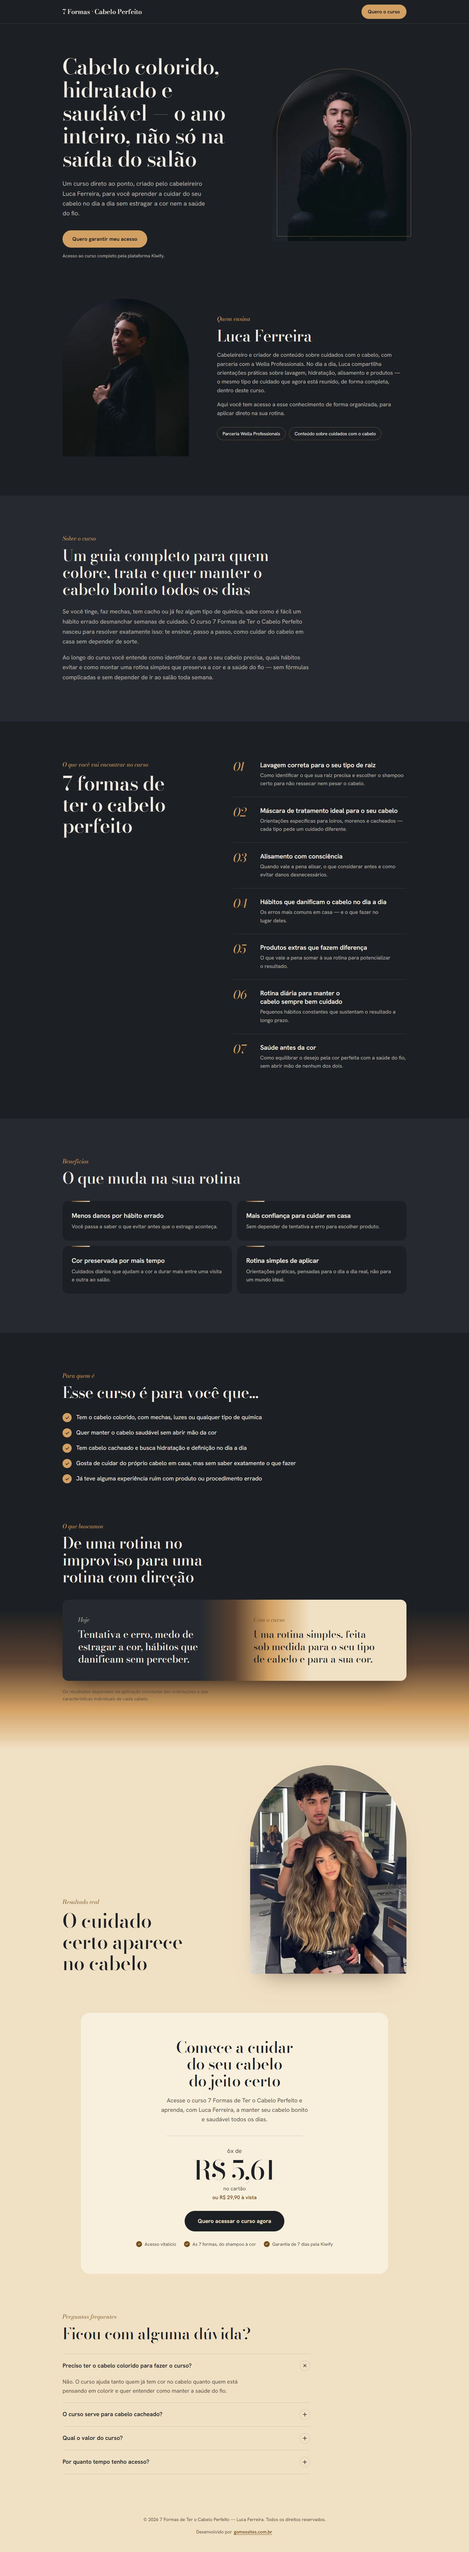
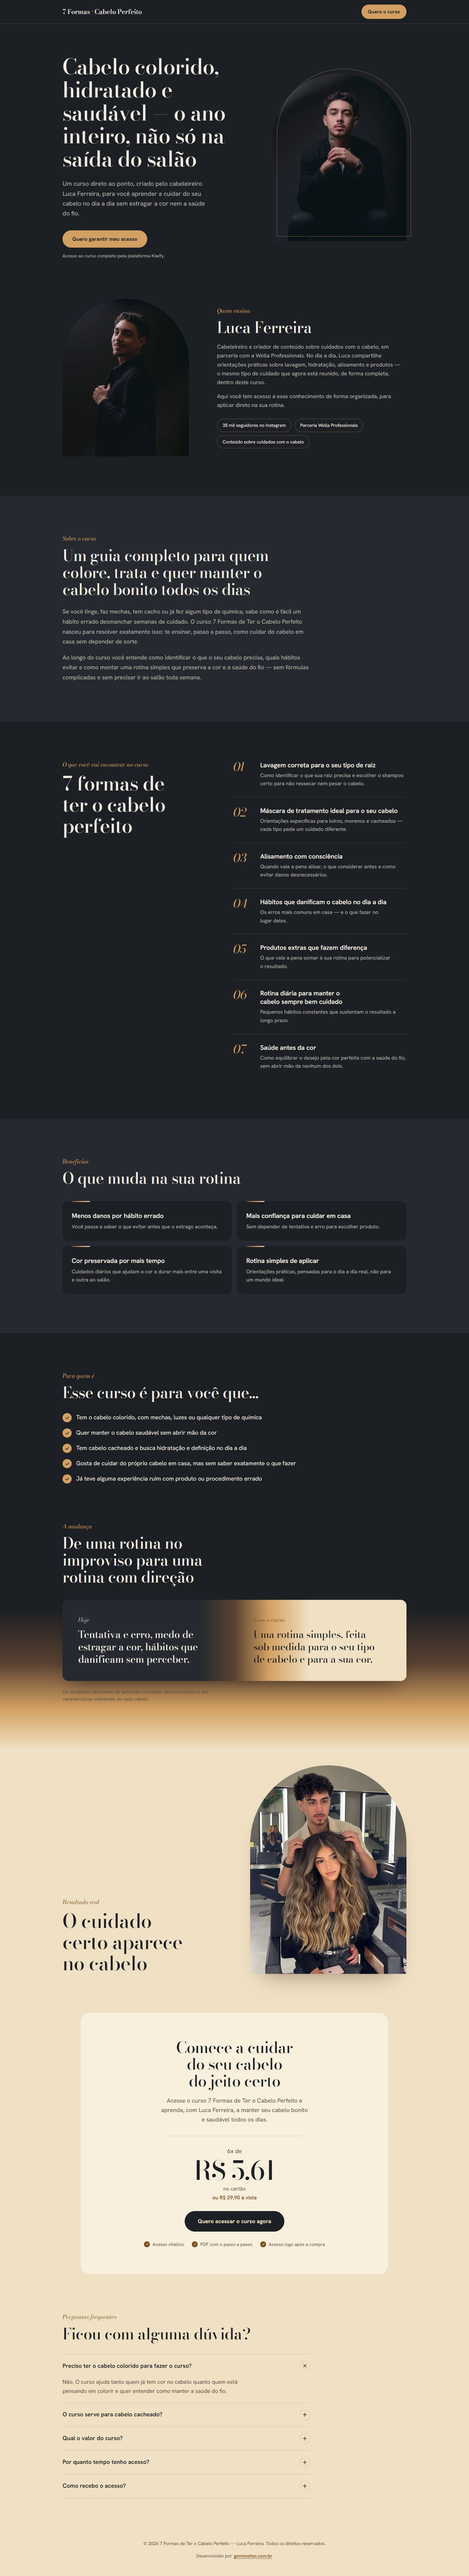
Ajusta textos da landing page
- Corrige "em parceria com a Wella" e evita repetição de "sem depender"
- Troca o rótulo "O que buscamos" por "A mudança"
- Adiciona selo "35 mil seguidores no Instagram"
- Oferta: remove a garantia de 7 dias e inclui PDF com o passo a passo
- FAQ: nova pergunta "Como recebo o acesso?"

diff --git a/index.html b/index.html
@@ -79,9 +79,10 @@
       <div class="autor__texto">
         <p class="rotulo">Quem ensina</p>
         <h2>Luca Ferreira</h2>
-        <p>Cabeleireiro e criador de conteúdo sobre cuidados com o cabelo, com parceria com a Wella Professionals. No dia a dia, Luca compartilha orientações práticas sobre lavagem, hidratação, alisamento e produtos — o mesmo tipo de cuidado que agora está reunido, de forma completa, dentro deste curso.</p>
+        <p>Cabeleireiro e criador de conteúdo sobre cuidados com o cabelo, em parceria com a Wella Professionals. No dia a dia, Luca compartilha orientações práticas sobre lavagem, hidratação, alisamento e produtos — o mesmo tipo de cuidado que agora está reunido, de forma completa, dentro deste curso.</p>
         <p>Aqui você tem acesso a esse conhecimento de forma organizada, para aplicar direto na sua rotina.</p>
         <ul class="selos">
+          <li>35 mil seguidores no Instagram</li>
           <li>Parceria Wella Professionals</li>
           <li>Conteúdo sobre cuidados com o cabelo</li>
         </ul>
@@ -95,7 +96,7 @@
       <p class="rotulo">Sobre o curso</p>
       <h2>Um guia completo para quem colore, trata e quer manter o cabelo bonito todos os dias</h2>
       <p>Se você tinge, faz mechas, tem cacho ou já fez algum tipo de química, sabe como é fácil um hábito errado desmanchar semanas de cuidado. O curso 7 Formas de Ter o Cabelo Perfeito nasceu para resolver exatamente isso: te ensinar, passo a passo, como cuidar do cabelo em casa sem depender de sorte.</p>
-      <p>Ao longo do curso você entende como identificar o que o seu cabelo precisa, quais hábitos evitar e como montar uma rotina simples que preserva a cor e a saúde do fio — sem fórmulas complicadas e sem depender de ir ao salão toda semana.</p>
+      <p>Ao longo do curso você entende como identificar o que o seu cabelo precisa, quais hábitos evitar e como montar uma rotina simples que preserva a cor e a saúde do fio — sem fórmulas complicadas e sem precisar ir ao salão toda semana.</p>
     </div>
   </section>
 
@@ -150,7 +151,7 @@
   <!-- 7. RESULTADO / TRANSFORMAÇÃO -->
   <section class="transf">
     <div class="wrap">
-      <p class="rotulo">O que buscamos</p>
+      <p class="rotulo">A mudança</p>
       <h2>De uma rotina no improviso para uma rotina com direção</h2>
       <div class="transf__mecha">
         <div class="transf__col transf__col--antes"><span>Hoje</span><h3>Tentativa e erro, medo de estragar a cor, hábitos que danificam sem perceber.</h3></div>
@@ -196,8 +197,8 @@
 
       <ul class="oferta__inclui">
         <li>Acesso vitalício</li>
-        <li>As 7 formas, do shampoo à cor</li>
-        <li>Garantia de 7 dias pela Kiwify</li>
+        <li>PDF com o passo a passo</li>
+        <li>Acesso logo após a compra</li>
       </ul>
     </div>
   </section>
@@ -223,6 +224,10 @@
         <details>
           <summary>Por quanto tempo tenho acesso?</summary>
           <p>O acesso é vitalício: uma vez dentro do curso, você pode assistir quando quiser, no seu tempo, sem prazo para expirar.</p>
+        </details>
+        <details>
+          <summary>Como recebo o acesso?</summary>
+          <p>Logo após a compra, você recebe o acesso no e-mail que cadastrar na Kiwify.</p>
         </details>
       </div>
     </div>
